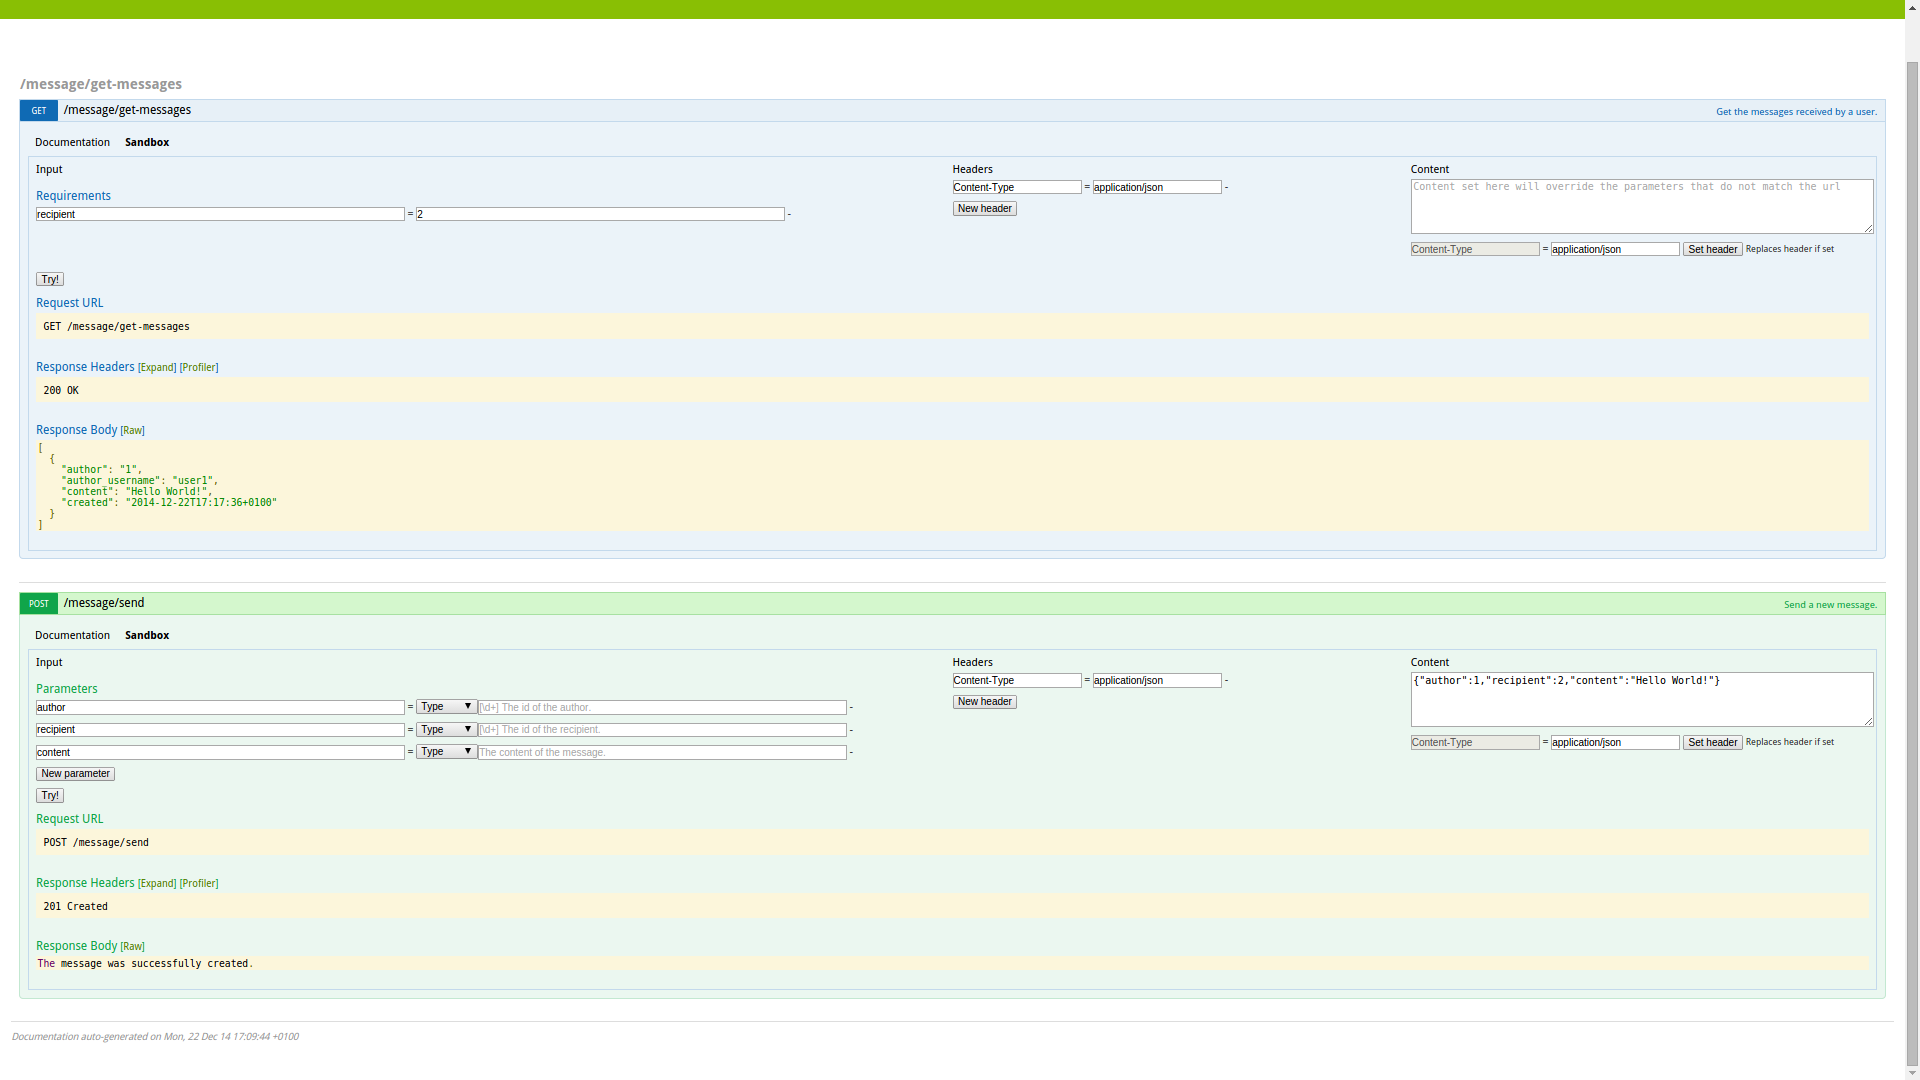
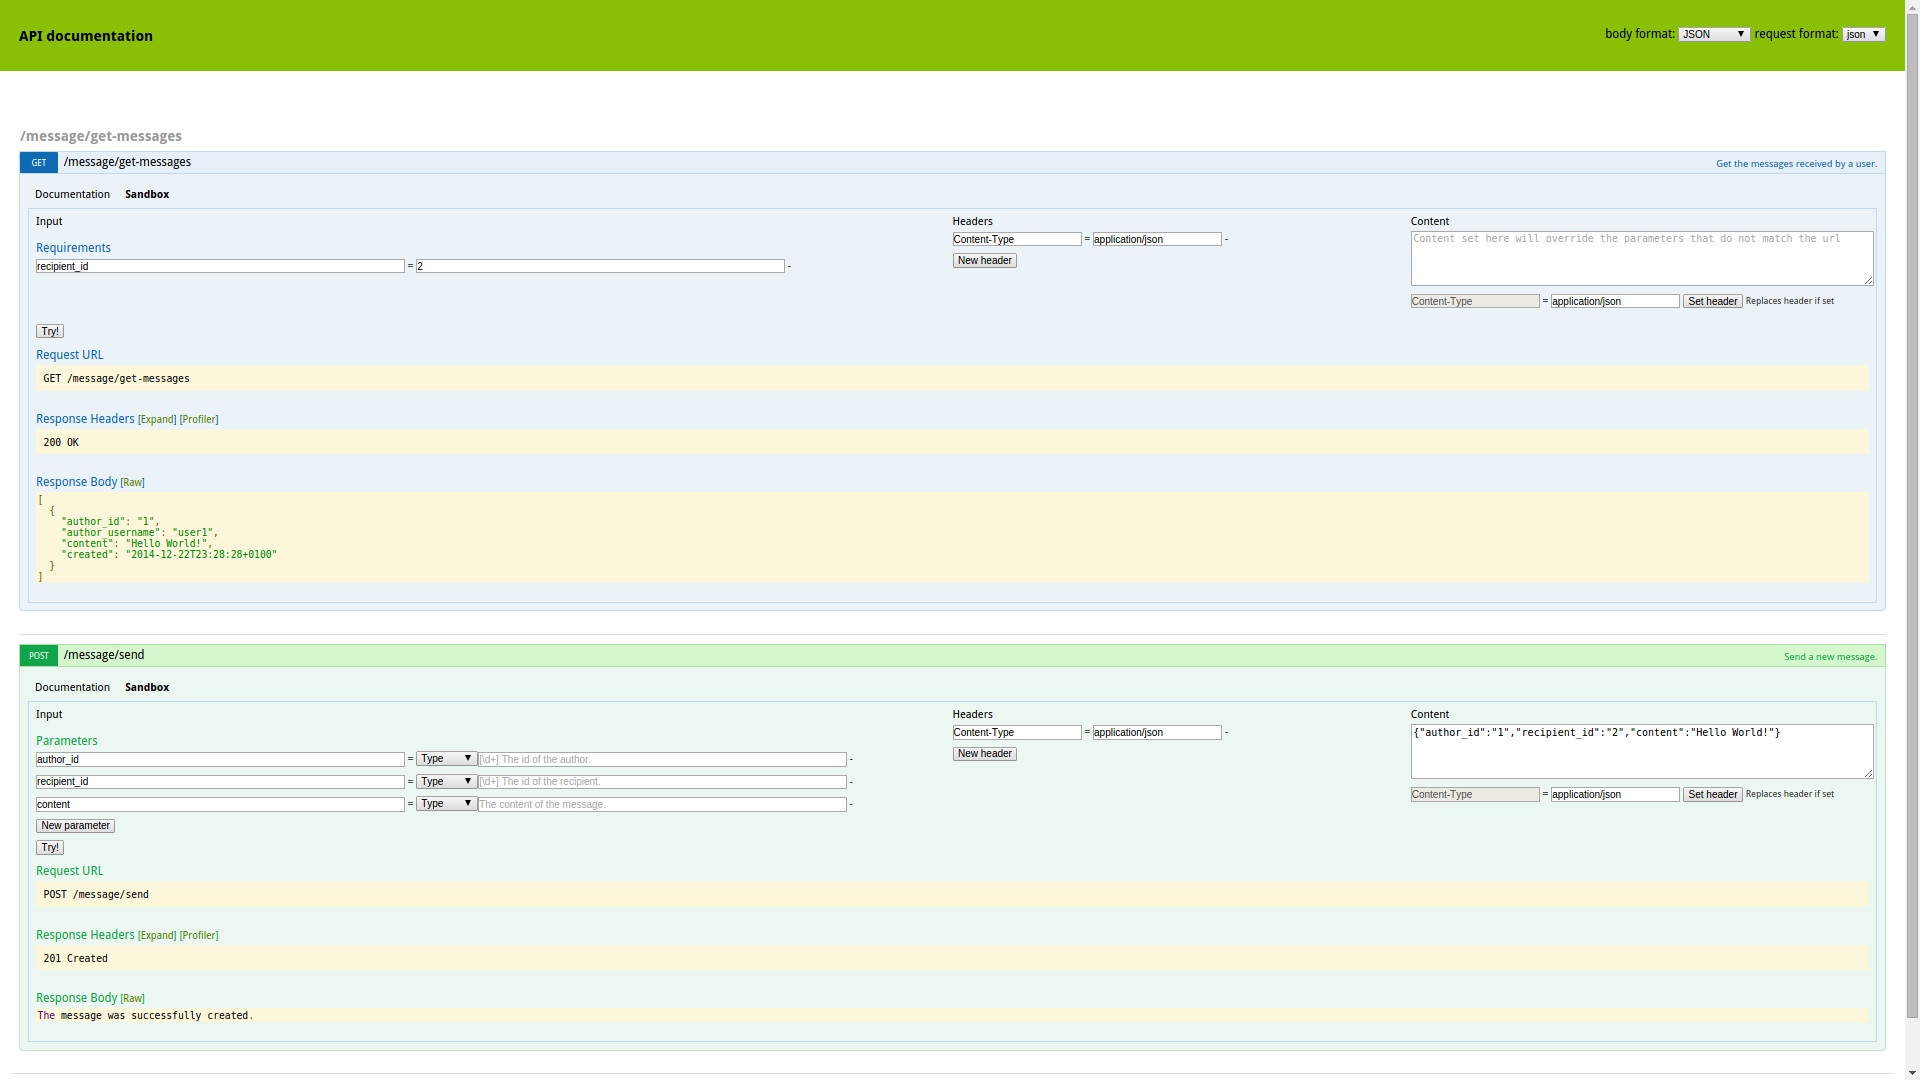
Added tests for the commands. Changed author to author_id in parameter names.

diff --git a/src/ChatBundle/Controller/MessageController.php b/src/ChatBundle/Controller/MessageController.php
@@ -26,8 +26,8 @@ class MessageController extends FOSRestController
      *
      * @Route("/send")
      * @Method({"POST"})
-     * @Rest\RequestParam(name="author", requirements="\d+", description="The id of the author.")
-     * @Rest\RequestParam(name="recipient", requirements="\d+", description="The id of the recipient.")
+     * @Rest\RequestParam(name="author_id", requirements="\d+", description="The id of the author.")
+     * @Rest\RequestParam(name="recipient_id", requirements="\d+", description="The id of the recipient.")
      * @Rest\RequestParam(name="content", description="The content of the message.")
      * @ApiDoc(
      *  statusCodes={
@@ -39,7 +39,7 @@ class MessageController extends FOSRestController
      */
     public function sendAction(ParamFetcher $paramFetcher)
     {
-        $params = $paramFetcher->all();
+        $params = $this->transformSendMessagesParams($paramFetcher);
         $message = new Message();
         $form = $this->createForm(new MessageType(), $message);
         $form->submit($params);
@@ -67,7 +67,7 @@ class MessageController extends FOSRestController
      * @Method({"GET"})
      *
      * @Rest\View(serializerGroups={"received"})
-     * @Rest\QueryParam(name="recipient", requirements="\d+", description="The id of the recipient.", strict=true)
+     * @Rest\QueryParam(name="recipient_id", requirements="\d+", description="The id of the recipient.", strict=true)
      * @ApiDoc(
      *  resource=true,
      *  output={
@@ -83,11 +83,26 @@ class MessageController extends FOSRestController
      */
     public function getMessagesAction(ParamFetcher $paramFetcher)
     {
-        $recipient = $paramFetcher->get('recipient');
+        $recipient_id = $paramFetcher->get('recipient_id');
         $messages = $this->getDoctrine()
             ->getRepository('ChatBundle:Message')
-            ->findMessagesByRecipient($recipient);
+            ->findMessagesByRecipient($recipient_id);
 
         return $messages;
+    }
+
+    /**
+     * Prepares the request params to be submitted to the Form.
+     *
+     * @param ParamFetcher $paramFetcher
+     * @return array
+     */
+    private function transformSendMessagesParams(ParamFetcher $paramFetcher)
+    {
+        return array(
+            'author' => $paramFetcher->get('author_id'),
+            'recipient' => $paramFetcher->get('recipient_id'),
+            'content' => $paramFetcher->get('content'),
+        );
     }
 }

diff --git a/src/ChatBundle/Tests/Command/CreateUserCommandTest.php b/src/ChatBundle/Tests/Command/CreateUserCommandTest.php
@@ -1,0 +1,48 @@
+<?php
+
+namespace ChatBundle\Tests\Command;
+
+use ChatBundle\Tests\ChatTestCase;
+use Symfony\Component\Console\Tester\CommandTester;
+
+
+class CreateUserCommandTest extends ChatTestCase
+{
+    /**
+     * The chat:user:create should create a new user if the username is not in use.
+     */
+    public function testCreateUserSuccess()
+    {
+        $application = static::getApplication();
+        $command = $application->find('chat:user:create');
+        $commandTester = new CommandTester($command);
+        $status_code = $commandTester->execute(array(
+            'command' => $command->getName(),
+            'username' => 'user3',
+        ));
+
+        $this->assertEquals($status_code, 0);
+        $this->assertRegExp('/Succesfully created user with username user3./', $commandTester->getDisplay());
+    }
+
+    /**
+     * If the username is in use the chat:user:create should fail with throwing a LogicException.
+     */
+    public function testCreateUserWithExistingUsername()
+    {
+        $application = static::getApplication();
+        $command = $application->find('chat:user:create');
+        $commandTester = new CommandTester($command);
+        $logic_exception_caught = false;
+        try {
+            $commandTester->execute(array(
+                'command' => $command->getName(),
+                'username' => 'user1',
+            ));
+        } catch (\LogicException $e) {
+            $logic_exception_caught = true;
+        }
+
+        $this->assertTrue($logic_exception_caught);
+    }
+}

diff --git a/src/ChatBundle/Tests/Controller/MessageControllerTest.php b/src/ChatBundle/Tests/Controller/MessageControllerTest.php
@@ -61,7 +61,7 @@ class MessageControllerTest extends ChatTestCase
     {
         $server = $this->getServerParams();
 
-        static::$client->request('GET', '/message/get-messages', array('recipient' => 2), array(), $server);
+        static::$client->request('GET', '/message/get-messages', array('recipient_id' => 2), array(), $server);
 
         $status = static::$client->getResponse()->getStatusCode();
         $content = static::$client->getResponse()->getContent();
@@ -69,7 +69,7 @@ class MessageControllerTest extends ChatTestCase
 
         $this->assertEquals($status, Codes::HTTP_OK);
         $this->assertEquals(count($content_array), 1);
-        $this->assertEquals($content_array[0]['author'], '1');
+        $this->assertEquals($content_array[0]['author_id'], '1');
         $this->assertEquals($content_array[0]['author_username'], 'user1');
         $this->assertEquals($content_array[0]['content'], 'Hello World!');
     }
@@ -99,8 +99,8 @@ class MessageControllerTest extends ChatTestCase
     private function createRawContent($author, $recipient, $message)
     {
         $content = new \stdClass();
-        $content->author = $author;
-        $content->recipient = $recipient;
+        $content->author_id = $author;
+        $content->recipient_id = $recipient;
         $content->content = $message;
 
         return json_encode($content);

diff --git a/src/ChatBundle/Tests/Command/ListUserCommandTest.php b/src/ChatBundle/Tests/Command/ListUserCommandTest.php
@@ -1,0 +1,24 @@
+<?php
+
+namespace ChatBundle\Tests\Command;
+
+use ChatBundle\Tests\ChatTestCase;
+use Symfony\Component\Console\Tester\CommandTester;
+
+
+class ListUserCommandTest extends ChatTestCase
+{
+    /**
+     * The chat:user:list should return the 0 status code.
+     */
+    public function testCreateUserSuccess()
+    {
+        $application = static::getApplication();
+        $command = $application->find('chat:user:list');
+        $commandTester = new CommandTester($command);
+        $status_code = $commandTester->execute(array('command' => $command->getName()));
+        $this->assertEquals($status_code, 0);
+        $this->assertRegExp('/1  | user1/', $commandTester->getDisplay());
+        $this->assertRegExp('/2  | user2/', $commandTester->getDisplay());
+    }
+}

diff --git a/src/ChatBundle/Entity/Message.php b/src/ChatBundle/Entity/Message.php
@@ -161,7 +161,7 @@ class Message
 
     /**
      * @Serializer\VirtualProperty
-     * @Serializer\SerializedName("author")
+     * @Serializer\SerializedName("author_id")
      * @Serializer\Type("string")
      * @Serializer\Groups({"received"})
      */

diff --git a/README.md b/README.md
@@ -59,6 +59,6 @@ Go to the API documentation at http://127.0.0.1:8000/api/doc/ and try out the sa
 Or use curl from a terminal:
 
 ```
-curl -H "Content-Type: application/json" -d '{"author":"1","recipient":"2","content":"Hello World!"}' http://127.0.0.1:8000/message/send
-curl -H "Content-Type: application/json" http://127.0.0.1:8000/message/get-messages?recipient=2
+curl -H "Content-Type: application/json" -d '{"author_id":"1","recipient_id":"2","content":"Hello World!"}' http://127.0.0.1:8000/message/send
+curl -H "Content-Type: application/json" http://127.0.0.1:8000/message/get-messages?recipient_id=2
 ```
